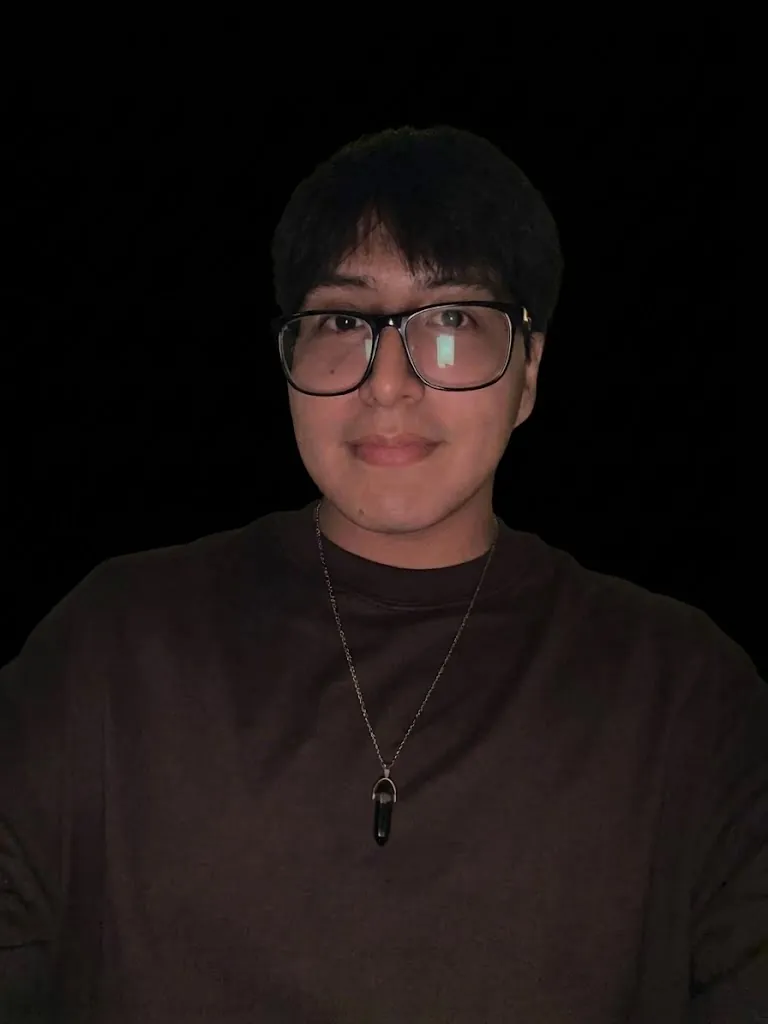
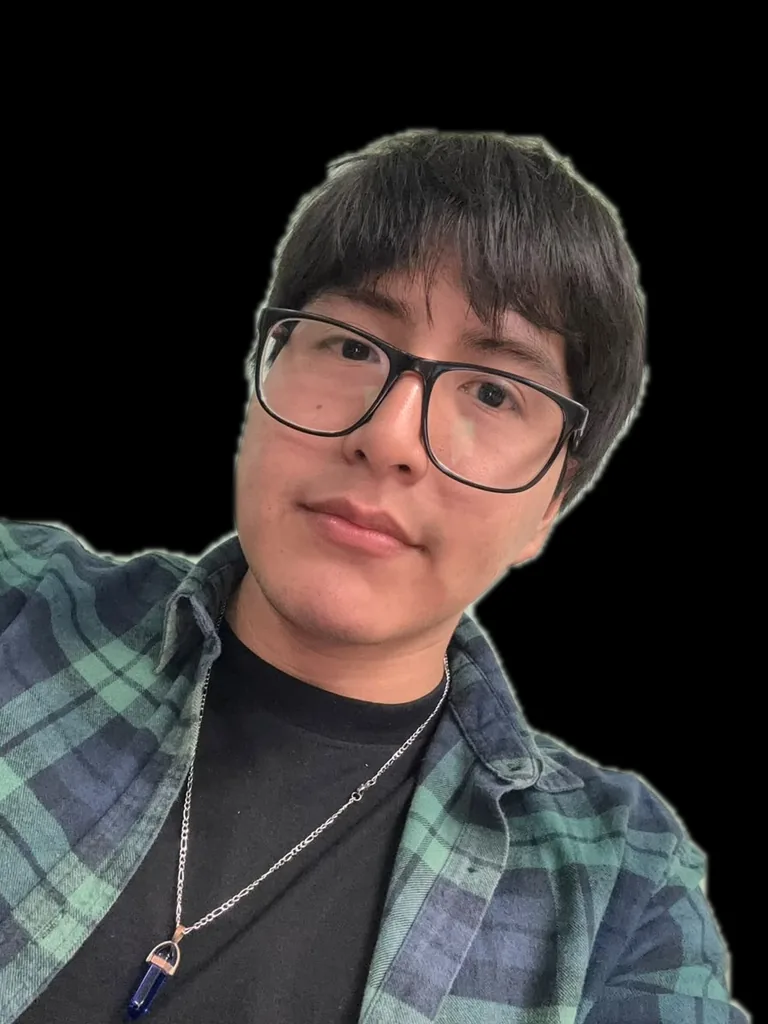
New portrait photo and adaptive halftone levels
- New photo, background removed and cropped closer to the face (3:4).
- Halftone levels now come from the person's own brightness range
  (2nd–99.5th percentile) with a "red filter" mix, so the face leads
  over clothes and any well-lit or dark photo fills the scale.

diff --git a/components/about/PortraitDots.tsx b/components/about/PortraitDots.tsx
@@ -16,8 +16,8 @@ import { useEffect, useRef, useState } from "react";
 
 const SAMPLE_W = 225; // sampling resolution, 3:4 like the card
 const SAMPLE_H = 300;
-const SHARPEN = 2; // edge boost, so glasses and features survive the halftone
-const MIN_LEVEL = 0.24;
+const SHARPEN = 1.2; // edge boost, so glasses and features survive the halftone
+const MIN_LEVEL = 0.18;
 const PUSH_RADIUS = 72;
 
 /** The card is dark in both themes, so the dots always take the dark-theme accent. */
@@ -95,37 +95,33 @@ export function PortraitDots({ src, alt, sizes }: { src: string; alt: string; si
       const dh = image.naturalHeight * scale;
       sctx.drawImage(image, (SAMPLE_W - dw) / 2, (SAMPLE_H - dh) / 2, dw, dh);
       const { data } = sctx.getImageData(0, 0, SAMPLE_W, SAMPLE_H);
-      const lum = new Float32Array(SAMPLE_W * SAMPLE_H);
-      for (let i = 0; i < lum.length; i++) {
-        const l = 0.2126 * data[i * 4] + 0.7152 * data[i * 4 + 1] + 0.0722 * data[i * 4 + 2];
-        lum[i] = l;
-      }
-      // Edge boost: lum + k·(lum − blur), a box blur of radius 4 run both ways.
-      const blur = boxBlur(lum, SAMPLE_W, SAMPLE_H, 4);
-      for (let i = 0; i < lum.length; i++) lum[i] += SHARPEN * (lum[i] - blur[i]);
-      // Floor: the darkest corner (the backdrop). Ceiling: the 99.9th percentile.
-      const corner = (x0: number, y0: number) => {
+      // "Red filter" mix, as in black-and-white portraits: skin reads light,
+      // greens and blues (clothes, walls) read darker, so the face leads.
+      const base = new Float32Array(SAMPLE_W * SAMPLE_H);
+      for (let i = 0; i < base.length; i++) base[i] = 0.65 * data[i * 4] + 0.315 * data[i * 4 + 1] + 0.035 * data[i * 4 + 2];
+      // Backdrop: the darker top corner. Anything clearly above it is the person.
+      const corner = (x0: number) => {
         let sum = 0;
-        for (let y = y0; y < y0 + 12; y++) for (let x = x0; x < x0 + 12; x++) sum += lum[y * SAMPLE_W + x];
+        for (let y = 0; y < 12; y++) for (let x = x0; x < x0 + 12; x++) sum += base[y * SAMPLE_W + x];
         return sum / 144;
       };
-      const floor = Math.min(corner(0, 0), corner(SAMPLE_W - 12, 0)) + 3;
-      const histogram = new Uint32Array(256);
-      for (const l of lum) histogram[Math.min(255, Math.max(0, Math.round(l)))]++;
-      let seen = 0;
-      let ceiling = 255;
-      for (let v = 0; v < 256; v++) {
-        seen += histogram[v];
-        if (seen >= lum.length * 0.999) {
-          ceiling = v;
-          break;
-        }
-      }
-      const span = Math.max(1, ceiling - floor);
-      // Anything above the backdrop keeps a minimum dot, so dark hair and clothes still draw the silhouette.
+      const backdrop = Math.min(corner(0), corner(SAMPLE_W - 12)) + 7;
+      // Edge boost: base + k·(base − blur), a box blur of radius 4 run both ways.
+      const blur = boxBlur(base, SAMPLE_W, SAMPLE_H, 4);
+      const lum = new Float32Array(base.length);
+      const person: number[] = [];
       for (let i = 0; i < lum.length; i++) {
-        const v = Math.pow(Math.min(1, Math.max(0, (lum[i] - floor) / span)), 0.75);
-        lum[i] = lum[i] > floor + 4 ? Math.max(v, MIN_LEVEL) : v;
+        lum[i] = base[i] + SHARPEN * (base[i] - blur[i]);
+        if (base[i] > backdrop) person.push(lum[i]);
+      }
+      // Levels from the person's own range (2nd–99.5th percentile), so dark and bright photos both fill the scale.
+      person.sort((a, b) => a - b);
+      const at = (q: number) => person[Math.min(person.length - 1, Math.floor(person.length * q))] ?? 0;
+      const low = at(0.02);
+      const span = Math.max(1, at(0.995) - low);
+      for (let i = 0; i < lum.length; i++) {
+        // The person always keeps a minimum dot, so dark hair and clothes still draw the silhouette.
+        lum[i] = base[i] > backdrop ? Math.max(MIN_LEVEL, Math.min(1, Math.max(0, (lum[i] - low) / span))) : 0;
       }
       return lum;
     }
